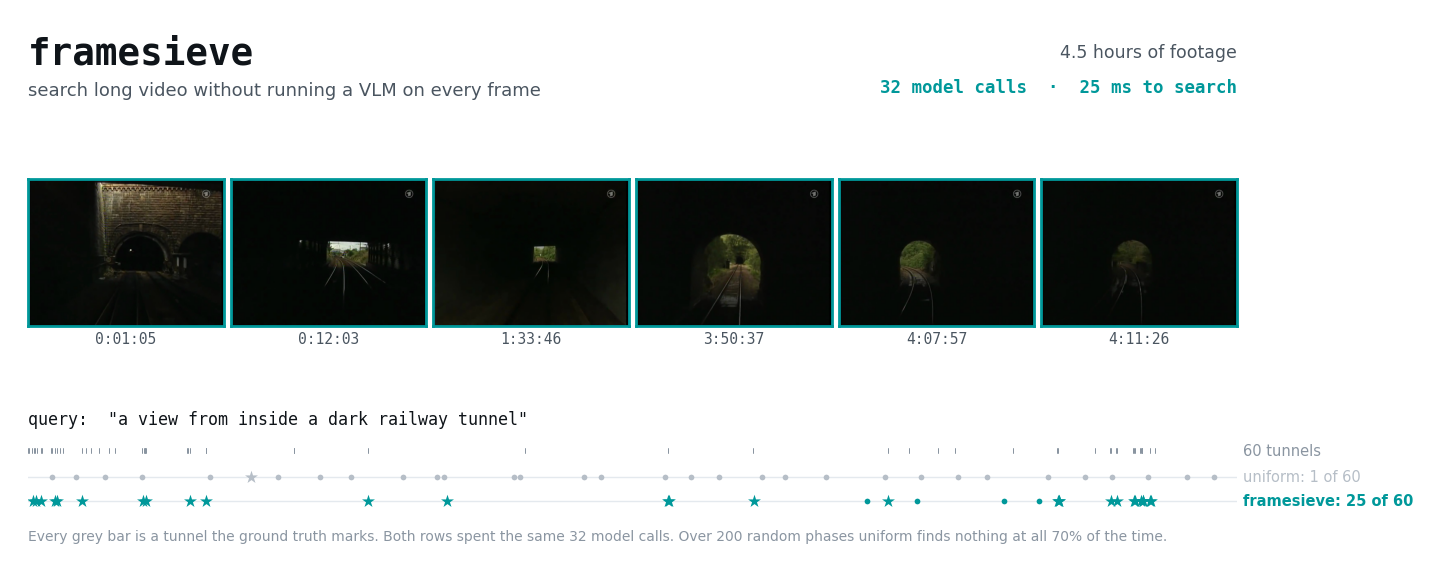
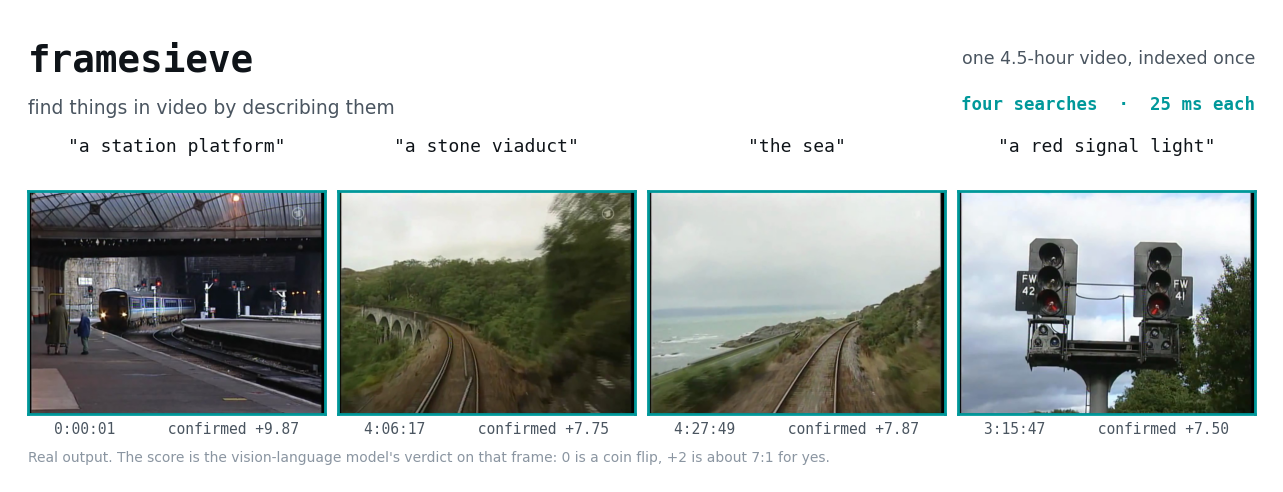
a hero that shows the tool is general, not lucky
The old banner was six near-identical frames from inside railway tunnels for
one query. Tunnels are dark, so it read as murky, and one query cannot
distinguish a working system from a lucky match.

Now four unrelated searches of the same 4.5-hour video -- a station platform,
a stone viaduct, the sea, a red signal light -- each with the timestamp it
returned and the vision-language model's score for that frame. Bright, varied,
and checkable: the reader can look at the picture and judge the label.

Queries are the short forms someone would actually type, not the longer
phrasings that scored better in testing. The four shown scored +7.50 to +9.87;
"snow-covered mountains" came back at -6.12 on the same video, correctly,
because there is none.

The uniform-sampling comparison moved out of the banner into its own figure
under "How good is it", where the 26x claim it supports actually lives.

diff --git a/scripts/make_readme_assets.py b/scripts/make_readme_assets.py
@@ -37,106 +37,130 @@ def _load():
     return d, frames
 
 
-def banner(mode: str = "light") -> str:
-    """Query in, frames out, and where each approach spent its budget.
+HERO = [
+    # query as a user would type it, the timestamp it returned, and the
+    # expensive model's verdict on that frame. All from one 4.5-hour video.
+    ("a station platform", 1.0, 9.87),
+    ("a stone viaduct", 14777.0, 7.75),
+    ("the sea", 16069.0, 7.87),
+    ("a red signal light", 11747.0, 7.50),
+]
 
-    The frames are real output for the caption shown, and the timeline below
-    them is the same run: every grey tick is a labelled tunnel, and the two rows
-    of dots are where the 32 model calls actually went. Uniform's row landing on
-    no tick is the entire argument for the project, so it is drawn rather than
-    asserted.
+
+def _tc(t: float) -> str:
+    t = int(t)
+    return f"{t//3600}:{t%3600//60:02d}:{t%60:02d}"
+
+
+def banner(mode: str = "light") -> str:
+    """Four different searches of one long video, and what each returned.
+
+    One query would show a lucky match; four unrelated ones show the thing is
+    general, which is the actual claim. The frames are real output and the
+    scores beside them are the vision-language model's verdict on that frame,
+    so a reader can check the labels against the pictures.
     """
-    d, frame_paths = _load()
+    t = THEME[mode]
+    paths = sorted(glob.glob(os.path.join(ROOT, "figures/hero_queries/*.jpg")))
+    by_key = {os.path.basename(p).split("_", 1)[1].rsplit(".", 1)[0]: p
+              for p in paths}
+
+    fig = plt.figure(figsize=(13.0, 4.55))
+    fig.patch.set_facecolor(t["surface"])
+    gs = fig.add_gridspec(3, 4, height_ratios=[0.52, 0.20, 1.55],
+                          hspace=0.10, wspace=0.045,
+                          left=0.028, right=0.972, top=0.965, bottom=0.075)
+
+    ax = fig.add_subplot(gs[0, :]); ax.axis("off")
+    ax.set_xlim(0, 1); ax.set_ylim(0, 1)
+    ax.text(0, 0.62, "framesieve", fontsize=27, fontweight="600",
+            color=t["ink"], va="center", family="monospace")
+    ax.text(0, 0.08, "find things in video by describing them",
+            fontsize=13.5, color=t["ink2"], va="center")
+    ax.text(1.0, 0.64, "one 4.5-hour video, indexed once", fontsize=12.5,
+            color=t["ink2"], ha="right", va="center")
+    ax.text(1.0, 0.12, "four searches  ·  25 ms each", fontsize=12.5,
+            color=t["series"][0], ha="right", va="center", fontweight="600",
+            family="monospace")
+
+    for i, (query, ts, score) in enumerate(HERO):
+        lab = fig.add_subplot(gs[1, i]); lab.axis("off")
+        lab.set_xlim(0, 1); lab.set_ylim(0, 1)
+        lab.text(0.5, 0.42, f'"{query}"', fontsize=13, color=t["ink"],
+                 ha="center", va="center", family="monospace")
+
+        a_ = fig.add_subplot(gs[2, i])
+        key = query.replace(" ", "_")
+        a_.imshow(plt.imread(by_key[key]))
+        a_.set_xticks([]); a_.set_yticks([])
+        for sp in a_.spines.values():
+            sp.set_edgecolor(t["series"][0]); sp.set_linewidth(2.0)
+        a_.set_xlabel(f"{_tc(ts)}      confirmed {score:+.2f}", fontsize=10.5,
+                      color=t["ink2"], family="monospace", labelpad=5)
+
+    fig.text(0.028, 0.012,
+             "Real output. The score is the vision-language model's verdict on "
+             "that frame: 0 is a coin flip, +2 is about 7:1 for yes.",
+             fontsize=10, color=t["ink3"])
+    return save(fig, os.path.join(ROOT, "figures/banner.png"), mode)
+
+
+def coverage(mode: str = "light") -> str:
+    """Where the budget went, against sampling every Nth frame.
+
+    The banner sells the capability; this is the evidence for it. Every grey bar
+    is a tunnel the ground truth marks, and both rows spent the same 32 model
+    calls.
+    """
+    d, _ = _load()
     t = THEME[mode]
     hero, picks = d["hero"], d["picks"]
     events = hero["events"]
     duration = 16244.0
 
-    # six frames spread across the run, so the strip reads as "all through the
-    # video" rather than "one dense patch"
-    pick_idx = np.linspace(0, len(frame_paths) - 1, 6).round().astype(int)
-    chosen = [frame_paths[i] for i in dict.fromkeys(pick_idx)]
-
-    fig = plt.figure(figsize=(13.0, 5.35))
+    fig, ax = plt.subplots(figsize=(13.0, 2.05))
     fig.patch.set_facecolor(t["surface"])
-    gs = fig.add_gridspec(3, len(chosen), height_ratios=[0.40, 1.65, 0.62],
-                          hspace=0.14, wspace=0.035,
-                          left=0.035, right=0.965, top=0.97, bottom=0.06)
+    ax.set_xlim(0, duration); ax.set_ylim(-0.2, 1.55); ax.axis("off")
+    ax.text(0, 1.42, 'searching 4.5 hours for  "a dark tunnel"',
+            fontsize=12.5, color=t["ink"], va="center", family="monospace")
 
-    # --- title band -------------------------------------------------------
-    ax = fig.add_subplot(gs[0, :]); ax.axis("off")
-    ax.text(0, 0.60, "framesieve", fontsize=27, fontweight="600",
-            color=t["ink"], va="center", family="monospace")
-    ax.text(0, 0.05, "search long video without running a VLM on every frame",
-            fontsize=13, color=t["ink2"], va="center")
-    ax.text(1.0, 0.62, "4.5 hours of footage", fontsize=12.5, color=t["ink2"],
-            ha="right", va="center")
-    ax.text(1.0, 0.10, "32 model calls  ·  25 ms to search", fontsize=12.5,
-            color=t["series"][0], ha="right", va="center", fontweight="600",
-            family="monospace")
-    ax.set_xlim(0, 1); ax.set_ylim(0, 1)
-
-    # --- the frames it found ---------------------------------------------
-    for i, p in enumerate(chosen):
-        a = fig.add_subplot(gs[1, i])
-        a.imshow(plt.imread(p))
-        a.set_xticks([]); a.set_yticks([])
-        for s in a.spines.values():
-            s.set_edgecolor(t["series"][0]); s.set_linewidth(2.0)
-        secs = int(os.path.basename(p).split("_t")[1].split(".")[0])
-        a.set_xlabel(f"{secs//3600}:{secs%3600//60:02d}:{secs%60:02d}",
-                     fontsize=10.5, color=t["ink2"], family="monospace",
-                     labelpad=4)
-
-    # --- where each approach looked --------------------------------------
-    ax = fig.add_subplot(gs[2, :])
-    ax.set_xlim(0, duration); ax.set_ylim(-0.15, 1.5)
-    ax.axis("off")
-    ax.text(0, 1.36, 'query:  "a view from inside a dark railway tunnel"',
-            fontsize=12, color=t["ink"], va="center", family="monospace")
-
-    for a, b, _ in events:                    # every labelled tunnel
-        ax.plot([a, max(b, a + 12)], [0.86, 0.86], color=t["ink3"],
+    for a, b, _c in events:
+        ax.plot([a, max(b, a + 12)], [0.92, 0.92], color=t["ink3"],
                 linewidth=4, solid_capstyle="butt", zorder=2)
-    ax.text(duration * 1.005, 0.86, f"{len(events)} tunnels", fontsize=10.5,
+    ax.text(duration * 1.005, 0.92, f"{len(events)} tunnels", fontsize=10.5,
             color=t["ink3"], va="center")
 
     def row(times, y, colour, name, emphasise):
-        """Draw where one strategy looked, and count what it actually hit.
+        """Draw where one strategy looked, and count what it hit.
 
-        The counts are computed here rather than written into the label: a
-        banner that says "0 found" next to a visible hit is the fastest way to
-        lose a reader, and hard-coding invites exactly that.
+        Counts are computed rather than written in: a figure claiming "0 found"
+        beside a visible hit is the fastest way to lose a reader.
         """
         ax.plot([0, duration], [y, y], color=t["grid"], linewidth=1, zorder=1)
-        on = [x for x in times
-              if any(a - 2 <= x <= b + 2 for a, b, _ in events)]
+        on = [x for x in times if any(a - 2 <= x <= b + 2 for a, b, _ in events)]
         off = [x for x in times if x not in on]
-        ax.scatter(off, [y] * len(off), s=17, color=colour, zorder=3,
-                   linewidths=0)
+        ax.scatter(off, [y] * len(off), s=17, color=colour, zorder=3, linewidths=0)
         if on:
             ax.scatter(on, [y] * len(on), s=95, marker="*", color=colour,
                        zorder=4, linewidths=0)
-        # distinct tunnels reached, which is what a user cares about -- two
-        # calls landing in the same tunnel is one tunnel found
-        hit_events = sum(1 for a, b, _ in events
-                         if any(a - 2 <= x <= b + 2 for x in times))
-        ax.text(duration * 1.005, y, f"{name}: {hit_events} of {len(events)}",
+        hit = sum(1 for a, b, _ in events
+                  if any(a - 2 <= x <= b + 2 for x in times))
+        ax.text(duration * 1.005, y, f"{name}: {hit} of {len(events)}",
                 fontsize=10.5, color=colour, va="center",
                 fontweight="600" if emphasise else "normal")
-        return hit_events
+        return hit
 
-    n_uniform = row(picks["uniform"], 0.44, t["muted"], "uniform", False)
-    n_ours = row(picks.get("segment_adaptive", picks.get("segment", [])), 0.06,
-                 t["series"][0], "framesieve", True)
+    row(picks["uniform"], 0.45, t["muted"], "every Nth frame", False)
+    row(picks.get("segment_adaptive", picks.get("segment", [])), 0.06,
+        t["series"][0], "framesieve", True)
 
-    fig.text(0.035, 0.012,
-             f"Every grey bar is a tunnel the ground truth marks. Both rows spent "
-             f"the same 32 model calls. Over 200 random phases uniform finds "
-             f"nothing at all {100*hero['uniform_miss_rate']:.0f}% of the time.",
+    fig.text(0.028, 0.02,
+             "Both rows spent the same 32 model calls. Over 200 random offsets, "
+             f"sampling every Nth frame finds nothing at all "
+             f"{100*hero['uniform_miss_rate']:.0f}% of the time.",
              fontsize=10, color=t["ink3"])
-    print(f"  [{mode}] uniform hit {n_uniform} tunnels, framesieve {n_ours}")
-    return save(fig, os.path.join(ROOT, "figures/banner.png"), mode)
+    fig.subplots_adjust(left=0.028, right=0.90, top=0.94, bottom=0.16)
+    return save(fig, os.path.join(ROOT, "figures/coverage.png"), mode)
 
 
 def at_a_glance(mode: str = "light") -> str:
@@ -167,4 +191,5 @@ def at_a_glance(mode: str = "light") -> str:
 if __name__ == "__main__":
     for mode in ("light", "dark"):
         print(banner(mode))
+        print(coverage(mode))
         print(at_a_glance(mode))

diff --git a/README.md b/README.md
@@ -1,6 +1,6 @@
 <picture>
   <source media="(prefers-color-scheme: dark)" srcset="figures/banner.dark.png">
-  <img alt="framesieve — search long video without running a VLM on every frame. Six tunnel frames found across 4.5 hours of footage, and a timeline showing that uniform sampling hit 1 of 60 tunnels with the same 32 model calls while framesieve hit 25." src="figures/banner.light.png">
+  <img alt="framesieve — find things in video by describing them. Four searches of one 4.5-hour video: a station platform, a stone viaduct, the sea, and a red signal light, each returning the correct frame with a timestamp and the vision-language model's confirmation score." src="figures/banner.light.png">
 </picture>
 
 <p align="center">
@@ -198,7 +198,16 @@ indexing 14× cheaper:
 
 Against a 4.5-hour video with every frame checked by a model, framesieve finds
 **26× more** of what you asked for than sampling every Nth frame does, at the
-same cost.
+same cost. Searching that video for `"a dark tunnel"` with a budget of 32 model
+calls:
+
+<picture>
+  <source media="(prefers-color-scheme: dark)" srcset="figures/coverage.dark.png">
+  <img alt="Timeline of a 4.5-hour video. Grey ticks mark 60 tunnels. Sampling every Nth frame spent 32 model calls evenly and hit 1 of them; framesieve spent the same 32 calls and hit 25." src="figures/coverage.light.png">
+</picture>
+
+Both spent the same 32 calls. Over 200 random offsets, sampling every Nth frame
+finds nothing at all 70% of the time.
 
 The measurements behind all of this, and the several approaches that did not
 work: **[the write-up](https://batchnorm.com)**.
